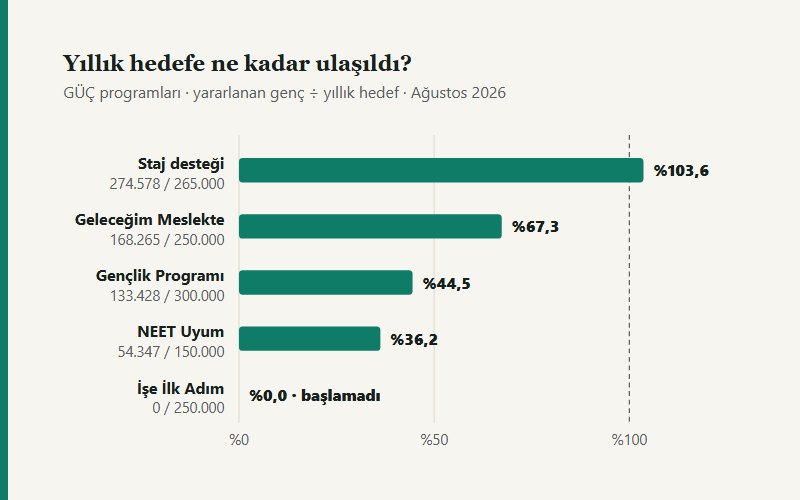
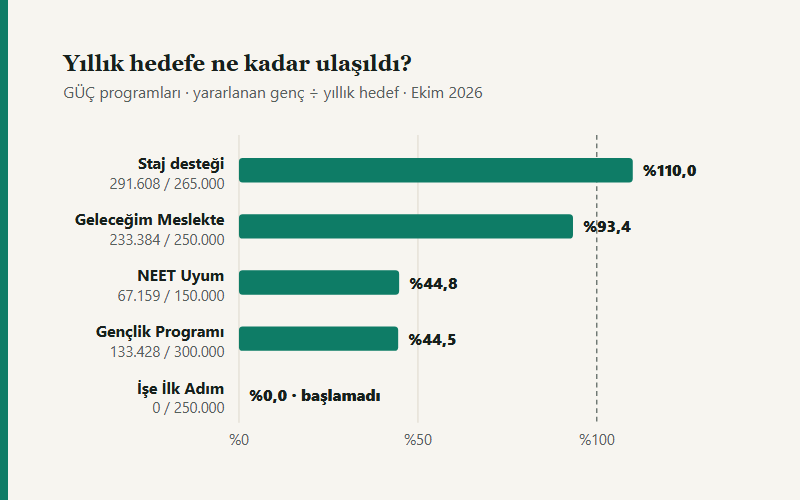
İŞKUR GÜÇ: Ekim 2026 göstergeleri

diff --git a/makaleler/iskur-19-bin-tl-gercekte-ne/index.html b/makaleler/iskur-19-bin-tl-gercekte-ne/index.html
@@ -8,7 +8,7 @@
   <meta name="viewport" content="width=device-width, initial-scale=1">
   <title>İŞKUR'dan 19 Bin TL: Gerçekte Ne Ödeniyor? | Koray Öner</title>
   <meta name="description" content="Gençlere ayda 19 bin TL maaş değil: kamu kurumunda katılınan her gün için 1.375 TL. Kimler alır, ayda kaç gün, emekliliğe sayılır mı ve programlar nerede.">
-  <meta name="gecerlilik" content="2026-11-15 | GÜÇ portalındaki göstergeler (guc.iskur.gov.tr) yeniden okunmalı ve guc-*.json yenilenmeli; İşe İlk Adım başladı mı? İŞKUR Gençlik başvuru takvimi ve 2027 cep harçlığı tutarı açıklandı mı?">
+  <meta name="gecerlilik" content="2026-12-15 | GÜÇ portalındaki göstergeler (guc.iskur.gov.tr) yeniden okunmalı ve guc-*.json yenilenmeli; İşe İlk Adım başladı mı? İŞKUR Gençlik başvuru takvimi ve 2027 cep harçlığı tutarı açıklandı mı?">
   <meta name="author" content="Koray Öner">
   <link rel="author" href="https://github.com/onerkoray">
   <meta name="theme-color" content="#0e7c66" media="(prefers-color-scheme: light)">
@@ -37,7 +37,7 @@
   <meta property="og:image" content="https://korayoner.dev/images/makale/iskur-19-bin-tl-gercekte-ne.png">
   <meta property="og:image:width" content="1200">
   <meta property="og:image:height" content="630">
-  <meta property="og:image:alt" content="GÜÇ programlarının Ağustos 2026 hedef ve gerçekleşmesi">
+  <meta property="og:image:alt" content="GÜÇ programlarının Ekim 2026 hedef ve gerçekleşmesi">
   <meta name="twitter:card" content="summary_large_image">
   <meta name="twitter:site" content="@korayonerdev">
   <meta name="twitter:creator" content="@korayonerdev">
@@ -74,7 +74,7 @@
         "@type": "Article",
         "@id": "https://korayoner.dev/makaleler/iskur-19-bin-tl-gercekte-ne/#article",
         "headline": "İŞKUR'dan 19 bin TL: gerçekte ne ödeniyor?",
-        "description": "Gençliğin Üretim Çağı (GÜÇ) kapsamında İŞKUR Gençlik Programı ve NEET İşgücü Uyum Programı: ödemenin niteliği, ay ay tutar, 140 gün sınırı, hane geliri şartı, sosyal güvenlik kapsamı ve programların Ağustos 2026 hedef ve gerçekleşmesi.",
+        "description": "Gençliğin Üretim Çağı (GÜÇ) kapsamında İŞKUR Gençlik Programı ve NEET İşgücü Uyum Programı: ödemenin niteliği, ay ay tutar, 140 gün sınırı, hane geliri şartı, sosyal güvenlik kapsamı ve programların Ekim 2026 hedef ve gerçekleşmesi.",
         "inLanguage": "tr",
         "datePublished": "2026-10-06",
         "dateModified": "2026-11-04",
@@ -175,8 +175,8 @@
           <figure class="ed-veri-gorseli">
             <img src="../../images/makale/iskur-19-bin-tl-gercekte-ne-kart.svg"
                  width="800" height="500" decoding="async"
-                 alt="GÜÇ programlarında Ağustos 2026 gerçekleşmesi: staj desteği %103,6, Geleceğim Meslekte %67,3, İŞKUR Gençlik %44,5, NEET İşgücü Uyum %36,2, İşe İlk Adım %0.">
-            <figcaption>Yararlanan genç sayısı ÷ programın yıllık hedefi. Gençlik Programı için 2025-2026 öğretim yılı. Kaynak: GÜÇ portalı, 6 Ekim 2026'da okundu.</figcaption>
+                 alt="GÜÇ programlarında Ekim 2026 gerçekleşmesi: staj desteği %110,0, Geleceğim Meslekte %93,4, İŞKUR Gençlik %44,5, NEET İşgücü Uyum %44,8, İşe İlk Adım %0.">
+            <figcaption>Yararlanan genç sayısı ÷ programın yıllık hedefi. Gençlik Programı için 2025-2026 öğretim yılı. Kaynak: GÜÇ portalı, 11 Kasım 2026'da okundu.</figcaption>
           </figure>
           <!-- LEAD-GORSEL:BITIS -->
 
@@ -200,7 +200,7 @@
             <tr><th scope="row">"25 yaşından küçük olmak"</th><td>İki programın katılım şartlarında üst yaş yok; şart 18 yaşını tamamlamış olmak.</td></tr>
             <tr><th scope="row">"Sigortalı çalışma"</th><td>Yalnız iş kazası ve meslek hastalığı ile genel sağlık sigortası, %5,5 prim; emeklilik primi yok.</td></tr>
             <tr><th scope="row">"Başvuran alır"</th><td>Kontenjanlı. Gençlik'te noter kurası; İUP'de önce özel politika listesi (kadınlar, engelliler, eski hükümlüler, Hane Bazlı İzleme Sistemi'ndekiler).</td></tr>
-            <tr><th scope="row">"İlk 6 ay maaşı devletten"</th><td>Başka bir program: İşe İlk Adım, özel sektörde ilk işine giren 18–25 yaş gençler için. GÜÇ portalında "çok yakında"; Ağustos 2026 itibarıyla yararlanan yok.</td></tr>
+            <tr><th scope="row">"İlk 6 ay maaşı devletten"</th><td>Başka bir program: İşe İlk Adım, özel sektörde ilk işine giren 18–25 yaş gençler için. GÜÇ portalında "çok yakında"; Ekim 2026 itibarıyla yararlanan yok.</td></tr>
           </tbody>
         </table>
       </div>
@@ -210,8 +210,8 @@
 <!-- ISK-HARITA:BASLANGIC -->
 <figure class="ed-grafik" aria-labelledby="ih-b">
 <p class="ed-grafik-baslik" id="ih-b">Kim hangi programa girer?</p>
-<p class="ed-grafik-alt">GÜÇ kapsamındaki beş program; Ağustos 2026 itibarıyla yararlanan genç sayısı.</p>
-<div class="ed-grafik-kap"><svg viewBox="0 0 640 328" role="img" aria-labelledby="ih-t ih-d"><title id="ih-t">GÜÇ kapsamındaki beş program</title><desc id="ih-d">Üniversite öğrencisi (devlet üniversitesi, örgün): İŞKUR Gençlik Programı, Günde 1.375 TL; haftada en çok 3 gün, Ağustos 2026'da 133.428 genç; NEET genç (ne okulda ne işte): NEET İşgücü Uyum Programı, Günde 1.375 TL; ilk 4 hafta 5 gün, Ağustos 2026'da 54.347 genç; İlk işine giren (18–25 yaş, özel sektör): İşe İlk Adım, İlk 6 ayın ücreti ve primi devletten, Ağustos 2026'da 0 genç; Staj yapacak öğrenci (yükseköğretim): Staj desteği, Staj yeri; mali destek ve sigorta, Ağustos 2026'da 274.578 genç; Meslek lisesi, MYO (son sınıf): Geleceğim Meslekte, Bire bir danışmanlık; harçlık yok, Ağustos 2026'da 168.265 genç. 1.375 TL günlük ödeme yalnız ilk iki programda.</desc><text class="kucuk" x="0" y="12">KİM</text><text class="kucuk" x="186" y="12">PROGRAM</text><text class="kucuk" x="462" y="12">AĞUSTOS 2026</text><text class="deger" x="0" y="50">Üniversite öğrencisi</text><text class="kucuk" x="0" y="66">devlet üniversitesi, örgün</text><path class="izgara" d="M168 53 H186"/><rect class="kutu-vurgu" x="186" y="28" width="262" height="50" rx="6"/><text class="deger" x="198" y="50">İŞKUR Gençlik Programı</text><text class="kucuk" x="198" y="66">Günde 1.375 TL; haftada en çok 3 gün</text><rect class="durum-iyi" x="462" y="36" width="84" height="18" rx="9"/><text class="durum-yazi" x="504" y="49" text-anchor="middle">yürüyor</text><text class="kucuk" x="462" y="68">133.428 genç</text><text class="deger" x="0" y="110">NEET genç</text><text class="kucuk" x="0" y="126">ne okulda ne işte</text><path class="izgara" d="M168 113 H186"/><rect class="kutu-vurgu" x="186" y="88" width="262" height="50" rx="6"/><text class="deger" x="198" y="110">NEET İşgücü Uyum Programı</text><text class="kucuk" x="198" y="126">Günde 1.375 TL; ilk 4 hafta 5 gün</text><rect class="durum-iyi" x="462" y="96" width="84" height="18" rx="9"/><text class="durum-yazi" x="504" y="109" text-anchor="middle">yürüyor</text><text class="kucuk" x="462" y="128">54.347 genç</text><text class="deger" x="0" y="170">İlk işine giren</text><text class="kucuk" x="0" y="186">18–25 yaş, özel sektör</text><path class="izgara" d="M168 173 H186"/><rect class="kutu" x="186" y="148" width="262" height="50" rx="6"/><text class="deger" x="198" y="170">İşe İlk Adım</text><text class="kucuk" x="198" y="186">İlk 6 ayın ücreti ve primi devletten</text><rect class="durum-yok" x="462" y="156" width="84" height="18" rx="9"/><text class="durum-yazi" x="504" y="169" text-anchor="middle">başlamadı</text><text class="kucuk" x="462" y="188">0 genç</text><text class="deger" x="0" y="230">Staj yapacak öğrenci</text><text class="kucuk" x="0" y="246">yükseköğretim</text><path class="izgara" d="M168 233 H186"/><rect class="kutu" x="186" y="208" width="262" height="50" rx="6"/><text class="deger" x="198" y="230">Staj desteği</text><text class="kucuk" x="198" y="246">Staj yeri; mali destek ve sigorta</text><rect class="durum-iyi" x="462" y="216" width="84" height="18" rx="9"/><text class="durum-yazi" x="504" y="229" text-anchor="middle">yürüyor</text><text class="kucuk" x="462" y="248">274.578 genç</text><text class="deger" x="0" y="290">Meslek lisesi, MYO</text><text class="kucuk" x="0" y="306">son sınıf</text><path class="izgara" d="M168 293 H186"/><rect class="kutu" x="186" y="268" width="262" height="50" rx="6"/><text class="deger" x="198" y="290">Geleceğim Meslekte</text><text class="kucuk" x="198" y="306">Bire bir danışmanlık; harçlık yok</text><rect class="durum-iyi" x="462" y="276" width="84" height="18" rx="9"/><text class="durum-yazi" x="504" y="289" text-anchor="middle">yürüyor</text><text class="kucuk" x="462" y="308">168.265 genç</text><path class="sifir" d="M560 28 h6 V138 h-6"/><text class="deger" x="574" y="80">1.375</text><text class="kucuk" x="574" y="95">TL/gün</text></svg></div>
+<p class="ed-grafik-alt">GÜÇ kapsamındaki beş program; Ekim 2026 itibarıyla yararlanan genç sayısı.</p>
+<div class="ed-grafik-kap"><svg viewBox="0 0 640 328" role="img" aria-labelledby="ih-t ih-d"><title id="ih-t">GÜÇ kapsamındaki beş program</title><desc id="ih-d">Üniversite öğrencisi (devlet üniversitesi, örgün): İŞKUR Gençlik Programı, Günde 1.375 TL; haftada en çok 3 gün, Ekim 2026'da 133.428 genç; NEET genç (ne okulda ne işte): NEET İşgücü Uyum Programı, Günde 1.375 TL; ilk 4 hafta 5 gün, Ekim 2026'da 67.159 genç; İlk işine giren (18–25 yaş, özel sektör): İşe İlk Adım, İlk 6 ayın ücreti ve primi devletten, Ekim 2026'da 0 genç; Staj yapacak öğrenci (yükseköğretim): Staj desteği, Staj yeri; mali destek ve sigorta, Ekim 2026'da 291.608 genç; Meslek lisesi, MYO (son sınıf): Geleceğim Meslekte, Bire bir danışmanlık; harçlık yok, Ekim 2026'da 233.384 genç. 1.375 TL günlük ödeme yalnız ilk iki programda.</desc><text class="kucuk" x="0" y="12">KİM</text><text class="kucuk" x="186" y="12">PROGRAM</text><text class="kucuk" x="462" y="12">AĞUSTOS 2026</text><text class="deger" x="0" y="50">Üniversite öğrencisi</text><text class="kucuk" x="0" y="66">devlet üniversitesi, örgün</text><path class="izgara" d="M168 53 H186"/><rect class="kutu-vurgu" x="186" y="28" width="262" height="50" rx="6"/><text class="deger" x="198" y="50">İŞKUR Gençlik Programı</text><text class="kucuk" x="198" y="66">Günde 1.375 TL; haftada en çok 3 gün</text><rect class="durum-iyi" x="462" y="36" width="84" height="18" rx="9"/><text class="durum-yazi" x="504" y="49" text-anchor="middle">yürüyor</text><text class="kucuk" x="462" y="68">133.428 genç</text><text class="deger" x="0" y="110">NEET genç</text><text class="kucuk" x="0" y="126">ne okulda ne işte</text><path class="izgara" d="M168 113 H186"/><rect class="kutu-vurgu" x="186" y="88" width="262" height="50" rx="6"/><text class="deger" x="198" y="110">NEET İşgücü Uyum Programı</text><text class="kucuk" x="198" y="126">Günde 1.375 TL; ilk 4 hafta 5 gün</text><rect class="durum-iyi" x="462" y="96" width="84" height="18" rx="9"/><text class="durum-yazi" x="504" y="109" text-anchor="middle">yürüyor</text><text class="kucuk" x="462" y="128">67.159 genç</text><text class="deger" x="0" y="170">İlk işine giren</text><text class="kucuk" x="0" y="186">18–25 yaş, özel sektör</text><path class="izgara" d="M168 173 H186"/><rect class="kutu" x="186" y="148" width="262" height="50" rx="6"/><text class="deger" x="198" y="170">İşe İlk Adım</text><text class="kucuk" x="198" y="186">İlk 6 ayın ücreti ve primi devletten</text><rect class="durum-yok" x="462" y="156" width="84" height="18" rx="9"/><text class="durum-yazi" x="504" y="169" text-anchor="middle">başlamadı</text><text class="kucuk" x="462" y="188">0 genç</text><text class="deger" x="0" y="230">Staj yapacak öğrenci</text><text class="kucuk" x="0" y="246">yükseköğretim</text><path class="izgara" d="M168 233 H186"/><rect class="kutu" x="186" y="208" width="262" height="50" rx="6"/><text class="deger" x="198" y="230">Staj desteği</text><text class="kucuk" x="198" y="246">Staj yeri; mali destek ve sigorta</text><rect class="durum-iyi" x="462" y="216" width="84" height="18" rx="9"/><text class="durum-yazi" x="504" y="229" text-anchor="middle">yürüyor</text><text class="kucuk" x="462" y="248">291.608 genç</text><text class="deger" x="0" y="290">Meslek lisesi, MYO</text><text class="kucuk" x="0" y="306">son sınıf</text><path class="izgara" d="M168 293 H186"/><rect class="kutu" x="186" y="268" width="262" height="50" rx="6"/><text class="deger" x="198" y="290">Geleceğim Meslekte</text><text class="kucuk" x="198" y="306">Bire bir danışmanlık; harçlık yok</text><rect class="durum-iyi" x="462" y="276" width="84" height="18" rx="9"/><text class="durum-yazi" x="504" y="289" text-anchor="middle">yürüyor</text><text class="kucuk" x="462" y="308">233.384 genç</text><path class="sifir" d="M560 28 h6 V138 h-6"/><text class="deger" x="574" y="80">1.375</text><text class="kucuk" x="574" y="95">TL/gün</text></svg></div>
 <figcaption>Vurgulu iki program, sosyal medyada "19 bin TL" diye birleştirilen günlük 1.375 TL'nin ödendiği programlar. Kaynak: İŞKUR program sayfaları ve GÜÇ portalı, 6 Ekim 2026'da okundu.</figcaption>
 </figure>
 <!-- ISK-HARITA:BITIS -->
@@ -234,16 +234,16 @@
       <p>Pratikte: on ay programa katılan bir gencin emeklilik prim günü değişmez. Genel sağlık sigortası açısından ise program süresince kapsam sağlanıyor. Gençlik Programı katılımcısı aynı dönemde başka bir işte 4/a sigortalı olarak da çalışabiliyor; ama başvurudan önceki son bir ayda sigortalı çalışmış olmak programa girmeye engel.</p>
 
       <h2 id="hedef">Hedefler ve bugüne kadar olan</h2>
-      <p>GÜÇ portalı her programın hedefini ve ulaşılan genç sayısını yayımlıyor. Ağustos 2026 itibarıyla programlara toplam <span data-s="toplamGenc">630.618</span> genç dahil edildi; yıl sonu hedefi 1 milyon. Programlar arasında fark büyük:</p>
+      <p>GÜÇ portalı her programın hedefini ve ulaşılan genç sayısını yayımlıyor. Ekim 2026 itibarıyla programlara toplam <span data-s="toplamGenc">725.579</span> genç dahil edildi; yıl sonu hedefi 1 milyon. Programlar arasında fark büyük:</p>
 <!-- ISK-HEDEF:BASLANGIC -->
 <figure class="ed-grafik" aria-labelledby="ie-b">
 <p class="ed-grafik-baslik" id="ie-b">Hedefe ne kadar ulaşıldı?</p>
-<p class="ed-grafik-alt">Ağustos 2026; yararlanan genç sayısı ÷ programın yıllık hedefi.</p>
-<div class="ed-grafik-kap"><svg viewBox="0 0 640 232" role="img" aria-labelledby="ie-t ie-d"><title id="ie-t">GÜÇ programlarında hedef ve gerçekleşme, Ağustos 2026</title><desc id="ie-d">Staj desteği: 274.578 / 265.000, %103,6; Geleceğim Meslekte: 168.265 / 250.000, %67,3; İŞKUR Gençlik Programı: 133.428 / 300.000, %44,5; NEET İşgücü Uyum Programı: 54.347 / 150.000, %36,2; İşe İlk Adım: 0 / 250.000, %0,0</desc><path class="izgara" d="M196.0 8 V208"/><text class="kucuk" x="196.0" y="228" text-anchor="middle">%0</text><path class="izgara" d="M278.7 8 V208"/><text class="kucuk" x="278.7" y="228" text-anchor="middle">%25</text><path class="izgara" d="M361.5 8 V208"/><text class="kucuk" x="361.5" y="228" text-anchor="middle">%50</text><path class="izgara" d="M444.2 8 V208"/><text class="kucuk" x="444.2" y="228" text-anchor="middle">%75</text><path class="esik" d="M526.9 8 V208"/><text class="kucuk" x="526.9" y="228" text-anchor="middle">%100</text><text class="deger" x="186" y="26" text-anchor="end">Staj desteği</text><text class="kucuk" x="186" y="41" text-anchor="end">274.578 / 265.000</text><rect class="seri-1" x="196" y="20" width="342.9" height="16" rx="3"/><text class="deger" x="546.9" y="33">%103,6</text><text class="deger" x="186" y="66" text-anchor="end">Geleceğim Meslekte</text><text class="kucuk" x="186" y="81" text-anchor="end">168.265 / 250.000</text><rect class="seri-1" x="196" y="60" width="222.7" height="16" rx="3"/><text class="deger" x="426.7" y="73">%67,3</text><text class="deger" x="186" y="106" text-anchor="end">İŞKUR Gençlik Programı</text><text class="kucuk" x="186" y="121" text-anchor="end">133.428 / 300.000</text><rect class="seri-1" x="196" y="100" width="147.2" height="16" rx="3"/><text class="deger" x="351.2" y="113">%44,5</text><text class="deger" x="186" y="146" text-anchor="end">NEET İşgücü Uyum Programı</text><text class="kucuk" x="186" y="161" text-anchor="end">54.347 / 150.000</text><rect class="seri-1" x="196" y="140" width="119.9" height="16" rx="3"/><text class="deger" x="323.9" y="153">%36,2</text><text class="deger" x="186" y="186" text-anchor="end">İşe İlk Adım</text><text class="kucuk" x="186" y="201" text-anchor="end">0 / 250.000</text><text class="deger" x="204.0" y="193">%0,0</text></svg></div>
+<p class="ed-grafik-alt">Ekim 2026; yararlanan genç sayısı ÷ programın yıllık hedefi.</p>
+<div class="ed-grafik-kap"><svg viewBox="0 0 640 232" role="img" aria-labelledby="ie-t ie-d"><title id="ie-t">GÜÇ programlarında hedef ve gerçekleşme, Ekim 2026</title><desc id="ie-d">Staj desteği: 291.608 / 265.000, %110,0; Geleceğim Meslekte: 233.384 / 250.000, %93,4; NEET İşgücü Uyum Programı: 67.159 / 150.000, %44,8; İŞKUR Gençlik Programı: 133.428 / 300.000, %44,5; İşe İlk Adım: 0 / 250.000, %0,0</desc><path class="izgara" d="M196.0 8 V208"/><text class="kucuk" x="196.0" y="228" text-anchor="middle">%0</text><path class="izgara" d="M278.7 8 V208"/><text class="kucuk" x="278.7" y="228" text-anchor="middle">%25</text><path class="izgara" d="M361.5 8 V208"/><text class="kucuk" x="361.5" y="228" text-anchor="middle">%50</text><path class="izgara" d="M444.2 8 V208"/><text class="kucuk" x="444.2" y="228" text-anchor="middle">%75</text><path class="esik" d="M526.9 8 V208"/><text class="kucuk" x="526.9" y="228" text-anchor="middle">%100</text><text class="deger" x="186" y="26" text-anchor="end">Staj desteği</text><text class="kucuk" x="186" y="41" text-anchor="end">291.608 / 265.000</text><rect class="seri-1" x="196" y="20" width="364.0" height="16" rx="3"/><text class="deger" x="568.0" y="33">%110,0</text><text class="deger" x="186" y="66" text-anchor="end">Geleceğim Meslekte</text><text class="kucuk" x="186" y="81" text-anchor="end">233.384 / 250.000</text><rect class="seri-1" x="196" y="60" width="308.9" height="16" rx="3"/><text class="deger" x="512.9" y="73">%93,4</text><text class="deger" x="186" y="106" text-anchor="end">NEET İşgücü Uyum Programı</text><text class="kucuk" x="186" y="121" text-anchor="end">67.159 / 150.000</text><rect class="seri-1" x="196" y="100" width="148.2" height="16" rx="3"/><text class="deger" x="352.2" y="113">%44,8</text><text class="deger" x="186" y="146" text-anchor="end">İŞKUR Gençlik Programı</text><text class="kucuk" x="186" y="161" text-anchor="end">133.428 / 300.000</text><rect class="seri-1" x="196" y="140" width="147.2" height="16" rx="3"/><text class="deger" x="351.2" y="153">%44,5</text><text class="deger" x="186" y="186" text-anchor="end">İşe İlk Adım</text><text class="kucuk" x="186" y="201" text-anchor="end">0 / 250.000</text><text class="deger" x="204.0" y="193">%0,0</text></svg></div>
 <figcaption>Gençlik Programı için 2025-2026 öğretim yılı. Kesikli çizgi hedefin tamamı. Kaynak: GÜÇ portalı (guc.iskur.gov.tr) göstergeleri.</figcaption>
 </figure>
 <!-- ISK-HEDEF:BITIS -->
-      <p>Staj desteği hedefini aşmış durumda. NEET programı yıllık 150 bin hedefin <span data-s="niupOran">%36,2</span>'sinde ve katılanların <span data-s="niupKadin">%64,8</span>'i kadın; bu, İUP'nin seçimde kadınlara öncelik veren kuralıyla uyumlu. "İlk 6 ay maaş devletten" diye duyurulan İşe İlk Adım için ayrılan kaynak 243 milyar TL ile en büyüğü, ama program henüz başlamadı.</p>
+      <p>Staj desteği hedefini aşmış durumda. NEET programı yıllık 150 bin hedefin <span data-s="niupOran">%44,8</span>'sinde ve katılanların <span data-s="niupKadin">%64,9</span>'i kadın; bu, İUP'nin seçimde kadınlara öncelik veren kuralıyla uyumlu. "İlk 6 ay maaş devletten" diye duyurulan İşe İlk Adım için ayrılan kaynak 243 milyar TL ile en büyüğü, ama program henüz başlamadı.</p>
 
       <h2 id="hesapla">Kendi takviminiz</h2>
       <p>Başlangıç tarihinize, programınıza ve haftalık gün sayınıza göre ay ay tutarı, 140 gün sınırının dolduğu günü ve hane geliri şartını <a href="../../iskur-genclik-programi-hesaplama/">İŞKUR ödeme hesaplama</a> aracında görebilirsiniz.</p>
@@ -252,14 +252,14 @@
       <ul>
         <li>Örnek gençlerin 2 Kasım 2026 pazartesi başladığı varsayıldı; katılım günleri haftanın ilk iş günleri sayıldı, resmî tatiller düşülmedi. Gerçek günleri kurum belirler.</li>
         <li>2027'ye taşan günler 2026'nın 1.375 TL'siyle hesaplandı; 2027 tutarı İŞKUR Yönetim Kurulunca belirlenecek.</li>
-        <li>Program göstergeleri GÜÇ portalının Ağustos 2026 verisi; portal güncellendikçe değişir. Gençlik Programı'nın oranı 2025-2026 öğretim yılı içindir.</li>
+        <li>Program göstergeleri GÜÇ portalının Ekim 2026 verisi; portal güncellendikçe değişir. Gençlik Programı'nın oranı 2025-2026 öğretim yılı içindir.</li>
         <li>Cep harçlığının vergi ve sosyal yardım uygunluğu üzerindeki etkisi bu yazının kapsamında değil.</li>
       </ul>
 
       <h2 id="kaynaklar">Kaynaklar</h2>
       <ul>
         <li>Türkiye İş Kurumu, <a href="https://www.iskur.gov.tr/is-arayan/aktif-isgucu-programlari/iskur-genclik-programi/" rel="noopener">İŞKUR Gençlik Programı</a> ve <a href="https://www.iskur.gov.tr/is-arayan/aktif-isgucu-programlari/isgucu-uyum-programi/" rel="noopener">İşgücü Uyum Programı</a> sayfaları (6 Ekim 2026'da okundu)</li>
-        <li><a href="https://guc.iskur.gov.tr/" rel="noopener">Gençliğin Üretim Çağı (GÜÇ) portalı</a>: program hedefleri, ayrılan kaynak ve Ağustos 2026 göstergeleri</li>
+        <li><a href="https://guc.iskur.gov.tr/" rel="noopener">Gençliğin Üretim Çağı (GÜÇ) portalı</a>: program hedefleri, ayrılan kaynak ve Ekim 2026 göstergeleri</li>
         <li><a href="https://www.mevzuat.gov.tr/mevzuatmetin/1.5.5510.pdf" rel="noopener">5510 sayılı Kanun</a> m.5/1-e</li>
         <li>Net asgari ücret: sitenin <a href="../../bordro/">bordro motoru</a> parametreleri</li>
       </ul>
@@ -270,7 +270,7 @@
       <details><summary>İŞKUR Gençlik Programı'na kimler başvurabilir?</summary><p>Devlet üniversitelerinin ön lisans, lisans, yüksek lisans ve doktora örgün öğrencileri; açık ve uzaktan öğretim öğrencileri başvuramaz. 18 yaşını tamamlamış olmak, son bir ayda sigortalı çalışmamış olmak ve hane gelirinin net asgari ücretin 3 katını aşmaması gerekir; yurtta kalanlar için hane şartı aranmaz.</p></details>
       <details><summary>NEET gençler için program nedir?</summary><p>Ne eğitimde ne istihdamda olan gençler için İşgücü Uyum Programı. Kamu kurumlarında ilk dört hafta haftada 5 gün, sonra 3 gün görev yapılıyor; günlük 1.375 TL. Hane geliri net asgari ücretin 2 katını aşmamalı; seçimde kadınlar ve engelliler önceliklidir.</p></details>
       <details><summary>Programda geçen süre emekliliğe sayılır mı?</summary><p>Hayır. Katılımcılar için yalnız iş kazası ve meslek hastalığı ile genel sağlık sigortası primi ödeniyor (5510 s.K. m.5/1-e); emeklilik prim gününe eklenen gün yok.</p></details>
-      <details><summary>İlk 6 ay maaşı devletten ödenecek program başladı mı?</summary><p>İşe İlk Adım adlı program özel sektörde ilk işine giren 18–25 yaş gençler için duyuruldu; GÜÇ portalında "çok yakında" görünüyor ve Ağustos 2026 itibarıyla yararlanan yok.</p></details>
+      <details><summary>İlk 6 ay maaşı devletten ödenecek program başladı mı?</summary><p>İşe İlk Adım adlı program özel sektörde ilk işine giren 18–25 yaş gençler için duyuruldu; GÜÇ portalında "çok yakında" görünüyor ve Ekim 2026 itibarıyla yararlanan yok.</p></details>
     </div></section>
     <!-- ILGILI:BASLANGIC -->
     <section class="related ilgili-uretilen" aria-labelledby="ilgili-baslik">

diff --git a/tools/iskur-yazisi.js b/tools/iskur-yazisi.js
@@ -4,7 +4,7 @@
  *   Yazı (makaleler/iskur-19-bin-tl-gercekte-ne/):
  *     ISK-HARITA  beş program: kim, ne alır, durumu (diyagram)
  *     ISK-AYLAR   aynı gün başlayan iki gencin ay ay cep harçlığı
- *     ISK-HEDEF   Ağustos 2026 hedef ve gerçekleşme
+ *     ISK-HEDEF   Ekim 2026 hedef ve gerçekleşme
  *     data-s alanları
  *   Araç (iskur-genclik-programi-hesaplama/):
  *     data-s alanları ve SSS yapısal verisi (GÖRÜNEN metinden)
@@ -57,7 +57,7 @@ function haritaSvg() {
     '<title id="ih-t">GÜÇ kapsamındaki beş program</title>',
     '<desc id="ih-d">' + esc(satir.map(function (s) {
       var pr = G.program(s[0]);
-      return s[1] + " (" + s[2] + "): " + s[3] + ", " + s[4] + ", Ağustos 2026'da " + nf.format(pr.gerceklesen) + " genç";
+      return s[1] + " (" + s[2] + "): " + s[3] + ", " + s[4] + ", Ekim 2026'da " + nf.format(pr.gerceklesen) + " genç";
     }).join("; ") + ". 1.375 TL günlük ödeme yalnız ilk iki programda.") + "</desc>"];
   p.push('<text class="kucuk" x="0" y="12">KİM</text><text class="kucuk" x="' + KX + '" y="12">PROGRAM</text><text class="kucuk" x="' + DX + '" y="12">AĞUSTOS 2026</text>');
   satir.forEach(function (s, i) {
@@ -122,7 +122,7 @@ function hedefSvg() {
   var MAX = 1.1;
   function x(o) { return SOL + Math.min(o, MAX) / MAX * (SAG - SOL); }
   var p = ['<svg viewBox="0 0 ' + W + " " + H + '" role="img" aria-labelledby="ie-t ie-d">',
-    '<title id="ie-t">GÜÇ programlarında hedef ve gerçekleşme, Ağustos 2026</title>',
+    '<title id="ie-t">GÜÇ programlarında hedef ve gerçekleşme, Ekim 2026</title>',
     '<desc id="ie-d">' + esc(d.map(function (s) { return s.ad + ": " + nf.format(s.gerceklesen) + " / " + nf.format(s.hedef) + ", " + yuzde(G.oran(s)); }).join("; ")) + "</desc>"];
   [0, 0.25, 0.5, 0.75, 1].forEach(function (o) {
     p.push('<path class="' + (o === 1 ? "esik" : "izgara") + '" d="M' + x(o).toFixed(1) + " " + UST + " V" + (UST + d.length * SATIR) + '"/>');
@@ -166,11 +166,11 @@ function alanlar() {
 function bloklar() {
   var o = G.ornekler();
   return {
-    "ISK-HARITA": figur("ih", "Kim hangi programa girer?", "GÜÇ kapsamındaki beş program; Ağustos 2026 itibarıyla yararlanan genç sayısı.", haritaSvg(),
+    "ISK-HARITA": figur("ih", "Kim hangi programa girer?", "GÜÇ kapsamındaki beş program; Ekim 2026 itibarıyla yararlanan genç sayısı.", haritaSvg(),
       "Vurgulu iki program, sosyal medyada \"19 bin TL\" diye birleştirilen günlük 1.375 TL'nin ödendiği programlar. Kaynak: İŞKUR program sayfaları ve GÜÇ portalı, 6 Ekim 2026'da okundu."),
     "ISK-AYLAR": figur("ia", "İki genç, ay ay", "2 Kasım 2026'da başlayan bir üniversiteli (haftada 3 gün) ve bir NEET programı katılımcısı.", aylarSvg(),
       "Sütunlar her ayın katılım günü × 1.375 TL. Kesikli çizgi İŞKUR'un açıkladığı aylık 19.250 TL. NEET programında ilk dört hafta 5 gün; toplam " + o.iup.toplamGun + " güne ulaşıp " + tl(o.iup.toplam) + " ediyor. 2027 ayları 2026 tutarıyla."),
-    "ISK-HEDEF": figur("ie", "Hedefe ne kadar ulaşıldı?", "Ağustos 2026; yararlanan genç sayısı ÷ programın yıllık hedefi.", hedefSvg(),
+    "ISK-HEDEF": figur("ie", "Hedefe ne kadar ulaşıldı?", "Ekim 2026; yararlanan genç sayısı ÷ programın yıllık hedefi.", hedefSvg(),
       "Gençlik Programı için 2025-2026 öğretim yılı. Kesikli çizgi hedefin tamamı. Kaynak: GÜÇ portalı (guc.iskur.gov.tr) göstergeleri.")
   };
 }

diff --git a/tools/makale-gorsel.js b/tools/makale-gorsel.js
@@ -2203,13 +2203,14 @@ function dogumYilFarki() {
 var GUC = require(path.join(KOK, "makaleler", "iskur-19-bin-tl-gercekte-ne", "guc.js"));
 function gucHedef() {
   var d = GUC.VERI.programlar.slice().sort(function (a, b) { return GUC.oran(b) - GUC.oran(a); });
-  if (Math.round(GUC.oran(GUC.program("staj")) * 1000) !== 1036 || Math.round(GUC.oran(GUC.program("niup")) * 1000) !== 362) throw new Error("İŞKUR kapağı yazıyla ayrıştı");
+  function gy(o) { return "%" + (o * 100).toFixed(1).replace(".", ","); }
+  var OZET = "GÜÇ programlarında " + GUC.VERI.donem + " gerçekleşmesi: staj desteği " + gy(GUC.oran(GUC.program("staj"))) + ", Geleceğim Meslekte " + gy(GUC.oran(GUC.program("meslek"))) +
+    ", İŞKUR Gençlik " + gy(GUC.oran(GUC.program("genclik"))) + ", NEET İşgücü Uyum " + gy(GUC.oran(GUC.program("niup"))) + ", İşe İlk Adım %0";
   var AD = { staj: "Staj desteği", meslek: "Geleceğim Meslekte", genclik: "Gençlik Programı", niup: "NEET Uyum", ilkadim: "İşe İlk Adım" };
-  var SOL = 168, SAG = 520, UST = 92, SATIR = 46, MAX = 1.1;
+  var SOL = 168, SAG = 520, UST = 92, SATIR = 46, MAX = 1.2;
   function x(o) { return SOL + (SAG - SOL) * Math.min(o, MAX) / MAX; }
   var ALT = UST + d.length * SATIR;
-  var s = baslikSatirlari("Yıllık hedefe ne kadar ulaşıldı?", "GÜÇ programları · yararlanan genç ÷ yıllık hedef · Ağustos 2026",
-    "GÜÇ programlarında Ağustos 2026 gerçekleşmesi: staj desteği %103,6, Geleceğim Meslekte %67,3, İŞKUR Gençlik %44,5, NEET İşgücü Uyum %36,2, İşe İlk Adım %0");
+  var s = baslikSatirlari("Yıllık hedefe ne kadar ulaşıldı?", "GÜÇ programları · yararlanan genç ÷ yıllık hedef · " + GUC.VERI.donem, OZET);
   [0, 0.5, 1].forEach(function (o) {
     s += '<path d="M' + x(o).toFixed(1) + " " + (UST - 6) + " V" + ALT + '" stroke="' + (o === 1 ? R.ikincil : R.izgara) + '" stroke-width="1"' + (o === 1 ? ' stroke-dasharray="4 3"' : "") + "/>";
     s += altYazi(x(o), ALT + 18, "%" + Math.round(o * 100));

diff --git a/makaleler/iskur-19-bin-tl-gercekte-ne/guc.js b/makaleler/iskur-19-bin-tl-gercekte-ne/guc.js
@@ -2,8 +2,8 @@
  * "İŞKUR'dan 19 bin TL: gerçekte ne ödeniyor?" yazısının hesabı.
  *
  * İki kaynak:
- *   - guc-2026-08.json: GÜÇ portalının (guc.iskur.gov.tr) Ağustos 2026
- *     göstergeleri, 6 Ekim 2026'da okunan anlık görüntü;
+ *   - guc-2026-10.json: GÜÇ portalının (guc.iskur.gov.tr) Ekim 2026
+ *     göstergeleri, 11 Kasım 2026'da okunan anlık görüntü;
  *   - iskur-genclik-programi-hesaplama/hesap.js: günlük tutar, 140 gün,
  *     haftalık düzen ve hane geliri kuralları (İŞKUR program sayfaları).
  * Bu dosya yalnız senaryoyu ve oranları kurar; yasal sayı yazmaz.
@@ -13,7 +13,7 @@
 var path = require("path");
 var KOK = path.join(__dirname, "..", "..");
 var I = require(path.join(KOK, "iskur-genclik-programi-hesaplama", "hesap.js"));
-var VERI = require("./guc-2026-08.json");
+var VERI = require("./guc-2026-10.json");
 
 var BASLANGIC = "2026-11-02";   // örnek: kasım başında başlayan iki genç
 
